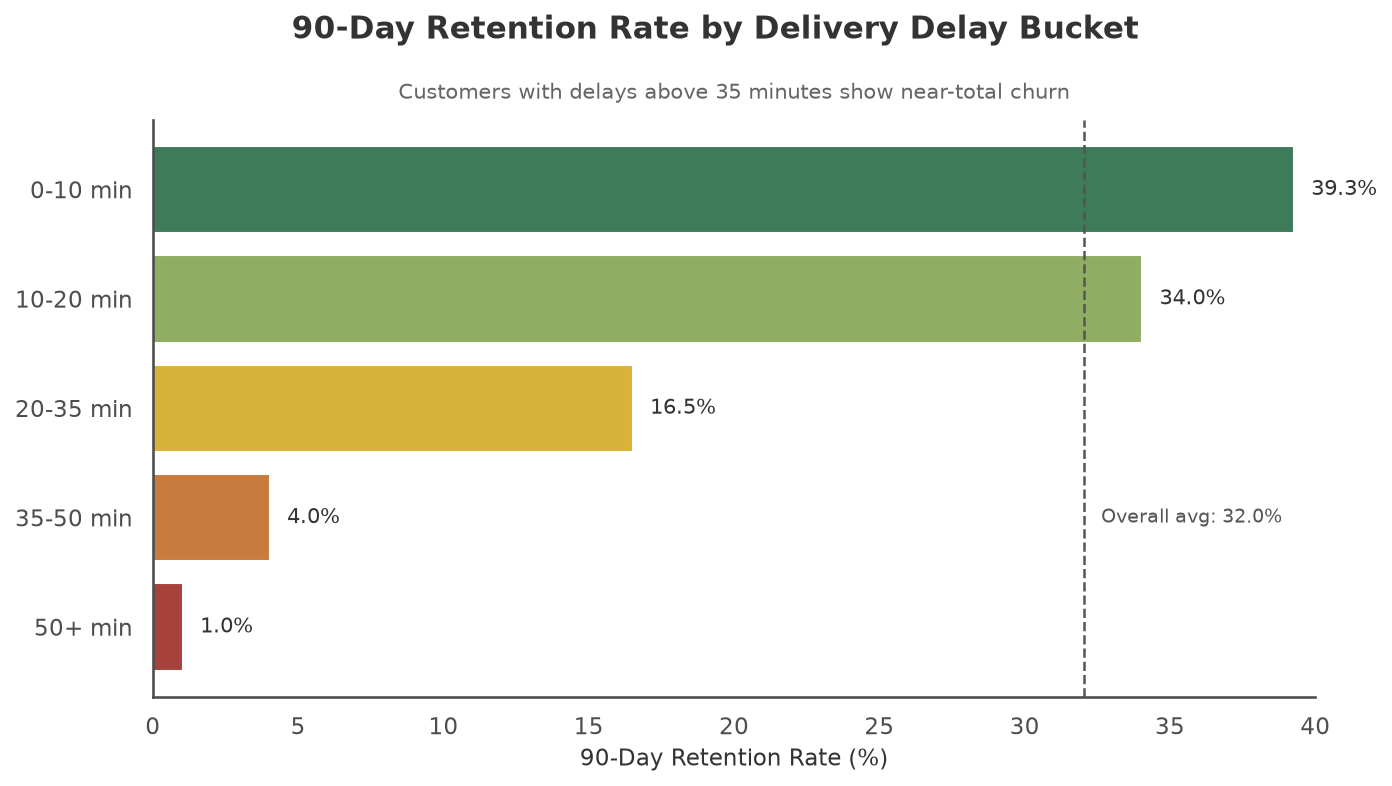
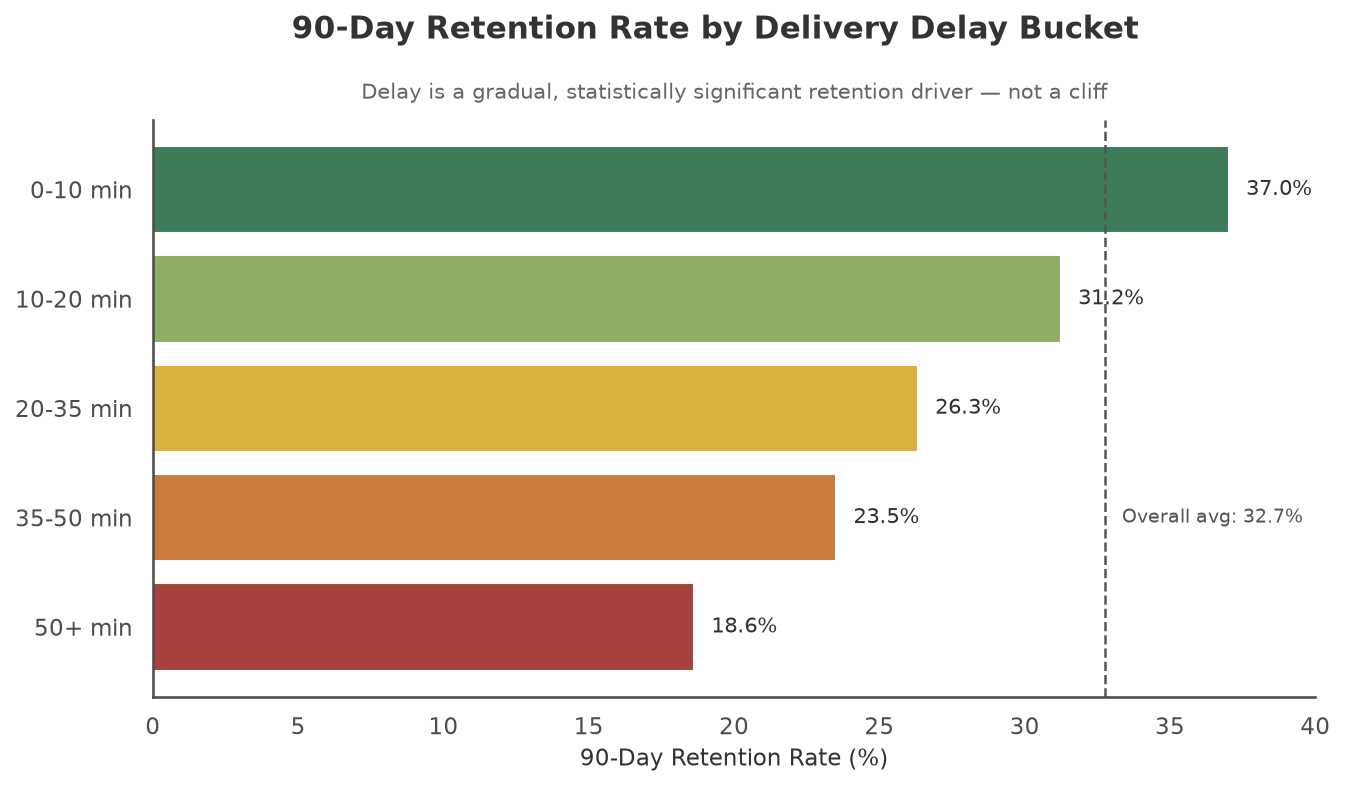
fix: rewrite Query 2 to match dashboard methodology — delivered orders only, first-order delay bucketing
Also updates visualisations.py (new column names: customer_count,
retained_count, retention_pct) and regenerates delivery_delay_churn.png,
which still carried the disproven "near-total churn" subtitle.

diff --git a/analysis/visualisations.py b/analysis/visualisations.py
@@ -101,15 +101,15 @@ def chart_delivery_delay_churn():
     df["delay_bucket"] = pd.Categorical(df["delay_bucket"], categories=bucket_order, ordered=True)
     df = df.sort_values("delay_bucket")
 
-    overall_avg = 100.0 * df["retained_customers"].sum() / df["total_customers"].sum()
+    overall_avg = 100.0 * df["retained_count"].sum() / df["customer_count"].sum()
 
     fig, ax = plt.subplots(figsize=(10, 5))
     # top-to-bottom = best-to-worst delay bucket
     plot_order = list(reversed(bucket_order))
     colors = list(reversed(MUTED_GREEN_TO_RED))
-    bars = ax.barh(plot_order, df.set_index("delay_bucket").loc[plot_order, "retention_rate_pct"], color=colors)
+    bars = ax.barh(plot_order, df.set_index("delay_bucket").loc[plot_order, "retention_pct"], color=colors)
 
-    for bar, value in zip(bars, df.set_index("delay_bucket").loc[plot_order, "retention_rate_pct"]):
+    for bar, value in zip(bars, df.set_index("delay_bucket").loc[plot_order, "retention_pct"]):
         ax.text(bar.get_width() + 0.6, bar.get_y() + bar.get_height() / 2, f"{value:.1f}%",
                 va="center", ha="left", fontsize=10, color="#333333")
 
@@ -123,7 +123,8 @@ def chart_delivery_delay_churn():
     ax.spines[["top", "right"]].set_visible(False)
 
     fig.suptitle("90-Day Retention Rate by Delivery Delay Bucket", fontsize=15, fontweight="bold", y=1.02)
-    ax.set_title("Customers with delays above 35 minutes show near-total churn", fontsize=10, color="#666666", pad=10)
+    ax.set_title("Delay is a gradual, statistically significant retention driver — not a cliff",
+                 fontsize=10, color="#666666", pad=10)
 
     save(fig, "delivery_delay_churn.png")
     print("Chart 2 saved: delivery_delay_churn.png")
